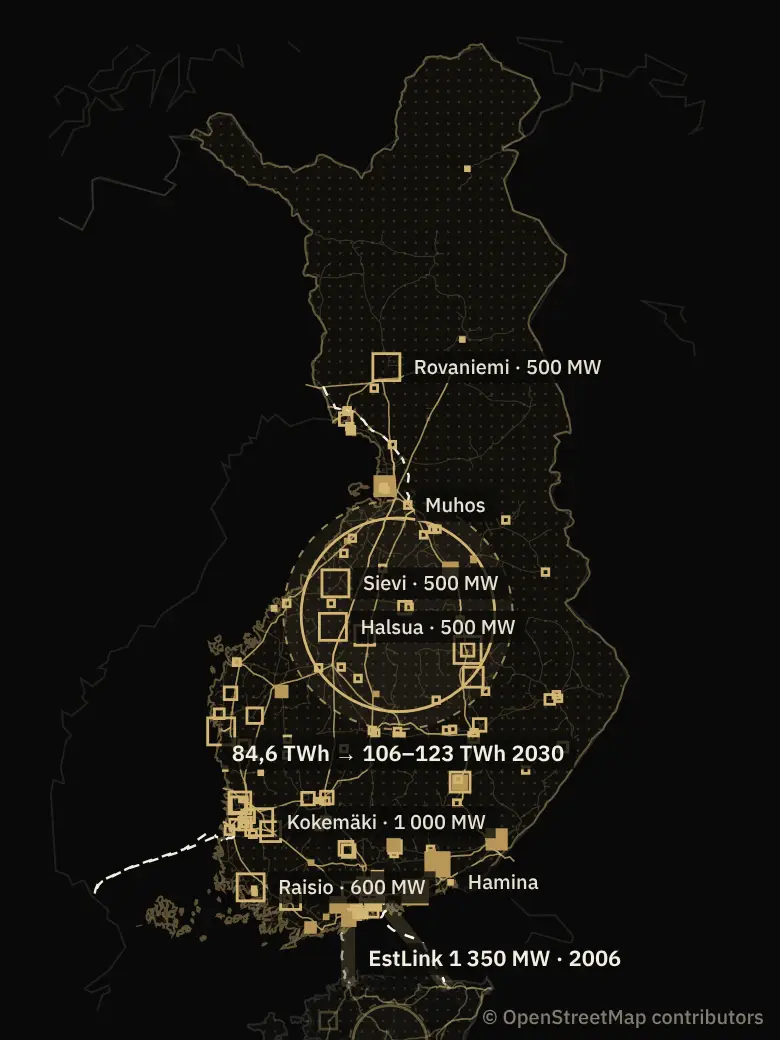
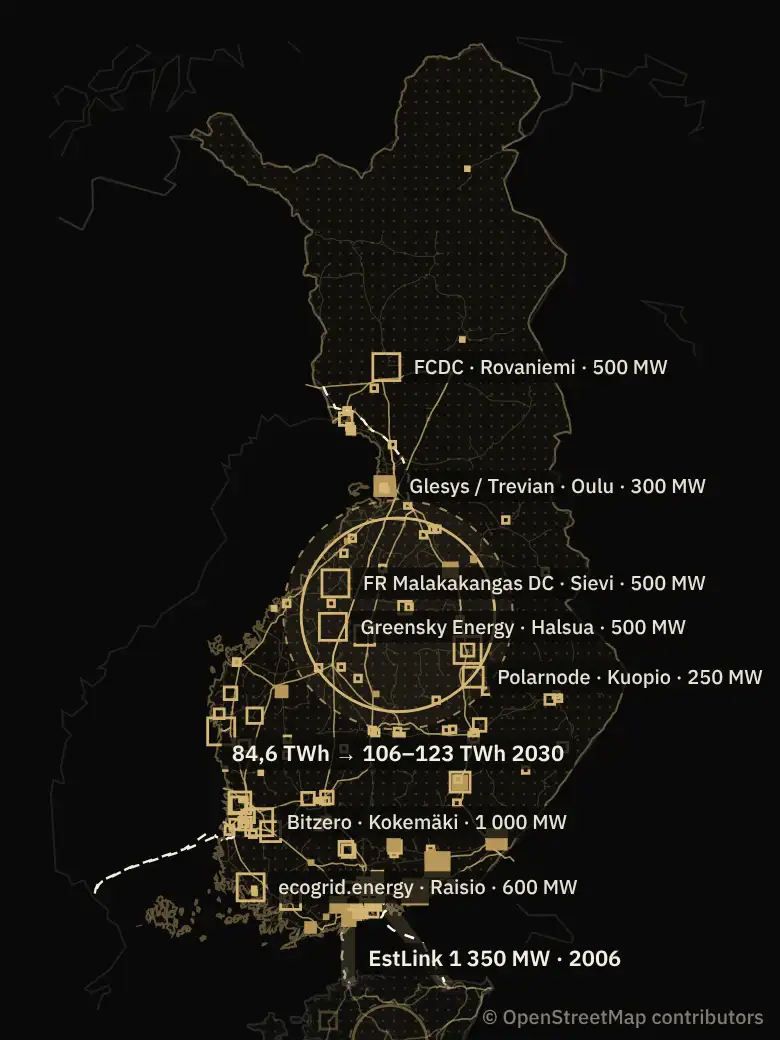
v51-launch: kartalle takaisin hankkeiden kuvaukset (omistaja · kunta · MW) ja enemmän solmuja (Madis 9.11.)
Madis 9.11.2026: hankkeiden kuvaukset puuttuivat (ne olivat v51/v52:ssa); mitä enemmän solmuja kartalla, sitä parempi
kokonaiskuva.
- scene.js / scene-et.js: Martinin fix5:n §2 peruttu: datakeskusten tunniste taas "omistaja · kunta · MW" ja 250 MW:sta
  (fix5: vain kunta · MW ja 500 MW:sta). Madiksen 6.11. päätös sallii omistajien nimet kartalla lähteen ja päivän kanssa.
  fix5:n §1 (vapaa vieritys) ja §3 (neliöiden selite) ennallaan.
- build_solmut.py: kaikki OSM:n tuuli-, aurinko- ja akkupuistot, joilla on teho vähintään 1 MW (oli 40 / 15 / 5 MW):
  242 → 319 solmua (tuuli FI 33 → 64, EE 4 → 27; aurinko FI 8 → 23, EE 1 → 8; akku 1 → 2); tunnisteet edelleen vain
  isoille, muut vihjeessä. kartta-solmut.json 76,7 kt (raja 90 kt).
- tasokuvat kk-* uudelleen; laatuhaun alaraja q60 → q56 (FI Kasvu -puhelinkuva q58 44,5 kt; tavubudjetit ennallaan)
- build + verify vihreä

Claude-Session: https://claude.ai/code/session_01R7oHPnXUmaDXHfCQv9HqdK

diff --git a/assets/scene-et.js b/assets/scene-et.js
@@ -1994,7 +1994,7 @@ class Component extends DCLogic {
         const st = ks.status[it.s][lang], kn = ks.kind[it.k][lang], yr = it.y ? ' · ' + (it.s === 'op' ? (lang === 'et' ? 'alates ' : 'vuodesta ') : (lang === 'et' ? 'valmib ' : 'valmis ')) + it.y : '';
         return { t: nm(it), d: kn + (it.o ? ' · ' + it.o : '') + (it.m ? ' · ' + it.m : '') + '\n' + st + yr + (mwT(it) ? ' · ' + mwT(it) : '') + (it.note ? '\n' + it.note[lang] : ''), s: srcT(it), u: it.u };
       };
-      const labOk = (it) => { const mw = mwOf(it); if (it.k === 'line' || it.k === 'link' || it.k === 'bess') return true; if (it.k === 'dc') return mw >= 500 || /^Google/.test(it.o || '') || it.c === 'EE'; if (it.k === 'wind') return mw >= (it.c === 'EE' ? 90 : 190); return mw >= 50; };
+      const labOk = (it) => { const mw = mwOf(it); if (it.k === 'line' || it.k === 'link' || it.k === 'bess') return true; if (it.k === 'dc') return mw >= 250 || /^Google/.test(it.o || '') || it.c === 'EE'; if (it.k === 'wind') return mw >= (it.c === 'EE' ? 90 : 190); return mw >= 50; };
       for (const it of ks.items) {
         const lid = LK[it.k], a = al(lid); if (a < 0.02 || LI[lid] == null) continue;
         const cc = it.c === 'EE' ? 'ee' : 'fi', vis = cc === home || cmp, ca = cc === home ? 1 : (cmp ? 0.85 : 0.3);
@@ -2018,7 +2018,7 @@ class Component extends DCLogic {
           else { g.beginPath(); g.arc(s[0], s[1], r, 0, Math.PI * 2); if (hollow) g.stroke(); else g.fill(); }
           if (vis) {
             const q = info(it); q.p = s; pins.push(q);
-            if (labOk(it)) { const left = s[0] > w - 150; const head = it.k === 'dc' ? (it.m || nm(it)) : nm(it); label(s[0] + (left ? -r - 7 : r + 7), s[1], head + (mwT(it) ? ' · ' + mwT(it).split(' · ')[0] : '') + (it.k === 'link' ? ' · ' + it.y : ''), { font: FONTS, align: left ? 'right' : 'left', color: '#E9E2D2' }); }
+            if (labOk(it)) { const left = s[0] > w - 150; const head = it.k === 'dc' && it.o ? own(it.o) + (it.m ? ' · ' + it.m : '') : nm(it); label(s[0] + (left ? -r - 7 : r + 7), s[1], head + (mwT(it) ? ' · ' + mwT(it).split(' · ')[0] : '') + (it.k === 'link' ? ' · ' + it.y : ''), { font: FONTS, align: left ? 'right' : 'left', color: '#E9E2D2' }); }
           }
         }
         g.globalAlpha = 1;

diff --git a/assets/scene.js b/assets/scene.js
@@ -1993,7 +1993,7 @@ class Component extends DCLogic {
         const st = ks.status[it.s][lang], kn = ks.kind[it.k][lang], yr = it.y ? ' · ' + (it.s === 'op' ? (lang === 'et' ? 'alates ' : 'vuodesta ') : (lang === 'et' ? 'valmib ' : 'valmis ')) + it.y : '';
         return { t: nm(it), d: kn + (it.o ? ' · ' + it.o : '') + (it.m ? ' · ' + it.m : '') + '\n' + st + yr + (mwT(it) ? ' · ' + mwT(it) : '') + (it.note ? '\n' + it.note[lang] : ''), s: srcT(it), u: it.u };
       };
-      const labOk = (it) => { const mw = mwOf(it); if (it.k === 'line' || it.k === 'link' || it.k === 'bess') return true; if (it.k === 'dc') return mw >= 500 || /^Google/.test(it.o || '') || it.c === 'EE'; if (it.k === 'wind') return mw >= (it.c === 'EE' ? 90 : 190); return mw >= 50; };
+      const labOk = (it) => { const mw = mwOf(it); if (it.k === 'line' || it.k === 'link' || it.k === 'bess') return true; if (it.k === 'dc') return mw >= 250 || /^Google/.test(it.o || '') || it.c === 'EE'; if (it.k === 'wind') return mw >= (it.c === 'EE' ? 90 : 190); return mw >= 50; };
       for (const it of ks.items) {
         const lid = LK[it.k], a = al(lid); if (a < 0.02 || LI[lid] == null) continue;
         const cc = it.c === 'EE' ? 'ee' : 'fi', vis = cc === home || cmp, ca = cc === home ? 1 : (cmp ? 0.85 : 0.3);
@@ -2017,7 +2017,7 @@ class Component extends DCLogic {
           else { g.beginPath(); g.arc(s[0], s[1], r, 0, Math.PI * 2); if (hollow) g.stroke(); else g.fill(); }
           if (vis) {
             const q = info(it); q.p = s; pins.push(q);
-            if (labOk(it)) { const left = s[0] > w - 150; const head = it.k === 'dc' ? (it.m || nm(it)) : nm(it); label(s[0] + (left ? -r - 7 : r + 7), s[1], head + (mwT(it) ? ' · ' + mwT(it).split(' · ')[0] : '') + (it.k === 'link' ? ' · ' + it.y : ''), { font: FONTS, align: left ? 'right' : 'left', color: '#E9E2D2' }); }
+            if (labOk(it)) { const left = s[0] > w - 150; const head = it.k === 'dc' && it.o ? own(it.o) + (it.m ? ' · ' + it.m : '') : nm(it); label(s[0] + (left ? -r - 7 : r + 7), s[1], head + (mwT(it) ? ' · ' + mwT(it).split(' · ')[0] : '') + (it.k === 'link' ? ' · ' + it.y : ''), { font: FONTS, align: left ? 'right' : 'left', color: '#E9E2D2' }); }
           }
         }
         g.globalAlpha = 1;

diff --git a/scripts/kaart/build_solmut.py b/scripts/kaart/build_solmut.py
@@ -248,7 +248,9 @@ def mwof(v):
     if not m: return None
     x = float(m.group(1)); u = m.group(2) or 'mw'
     return x / 1000 if u == 'kw' else x * 1000 if u == 'gw' else x
-KMIN = {'wind': 40, 'solar': 15, 'battery': 5}
+# 9.11.2026 Madis: mitä enemmän solmuja kartalla, sitä parempi kokonaiskuva → kaikki OSM:n puistot, joilla on teho
+# vähintään 1 MW (oli tuuli 40, aurinko 15, akku 5 MW). Tunnisteet piirretään edelleen vain isoille (scene.js labOk).
+KMIN = {'wind': 1, 'solar': 1, 'battery': 1}
 for el in plants['elements']:
     t = el.get('tags', {}); src = t.get('plant:source')
     if src not in KMIN: continue
